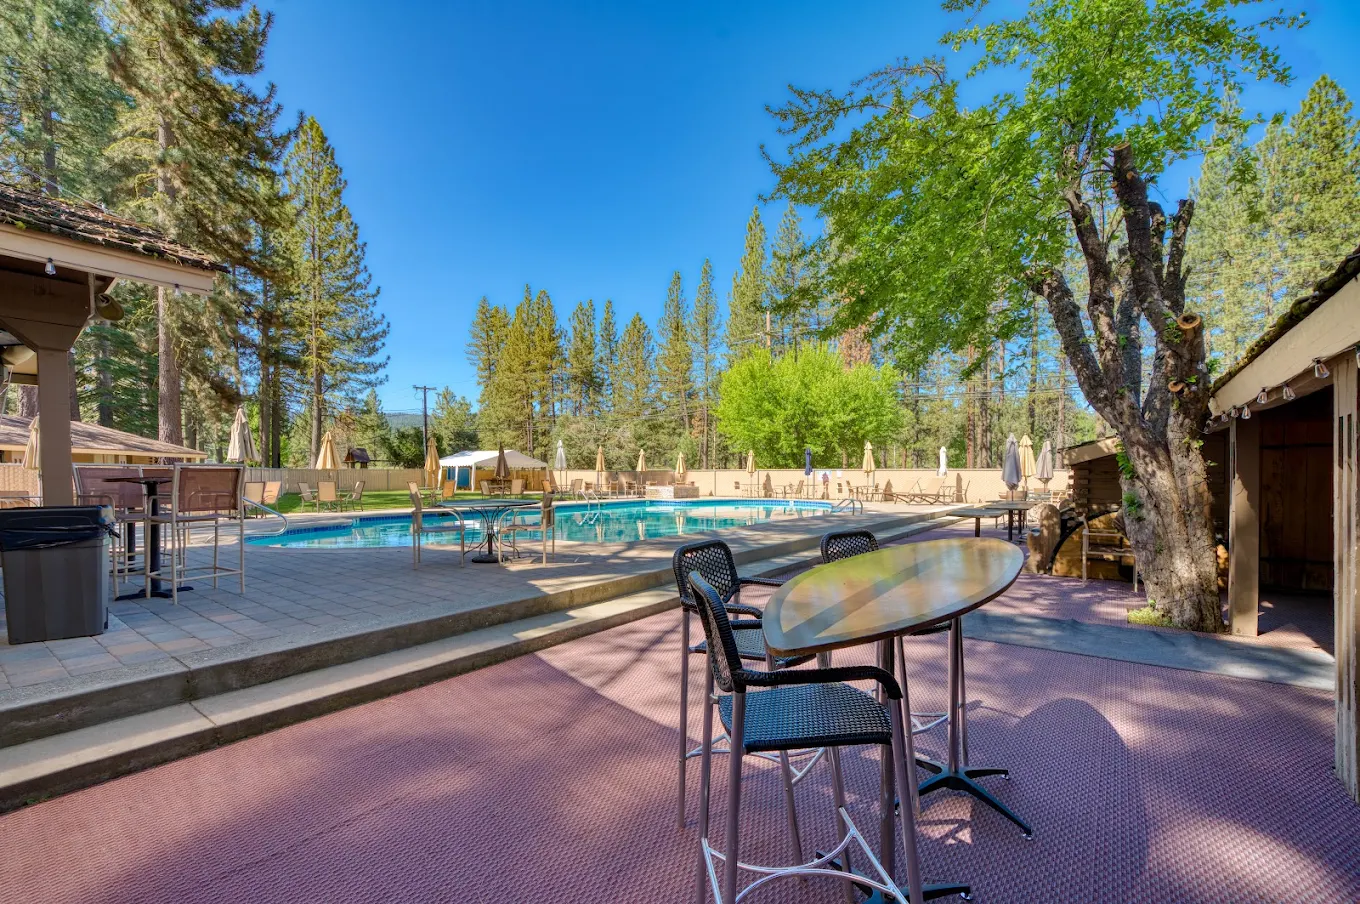
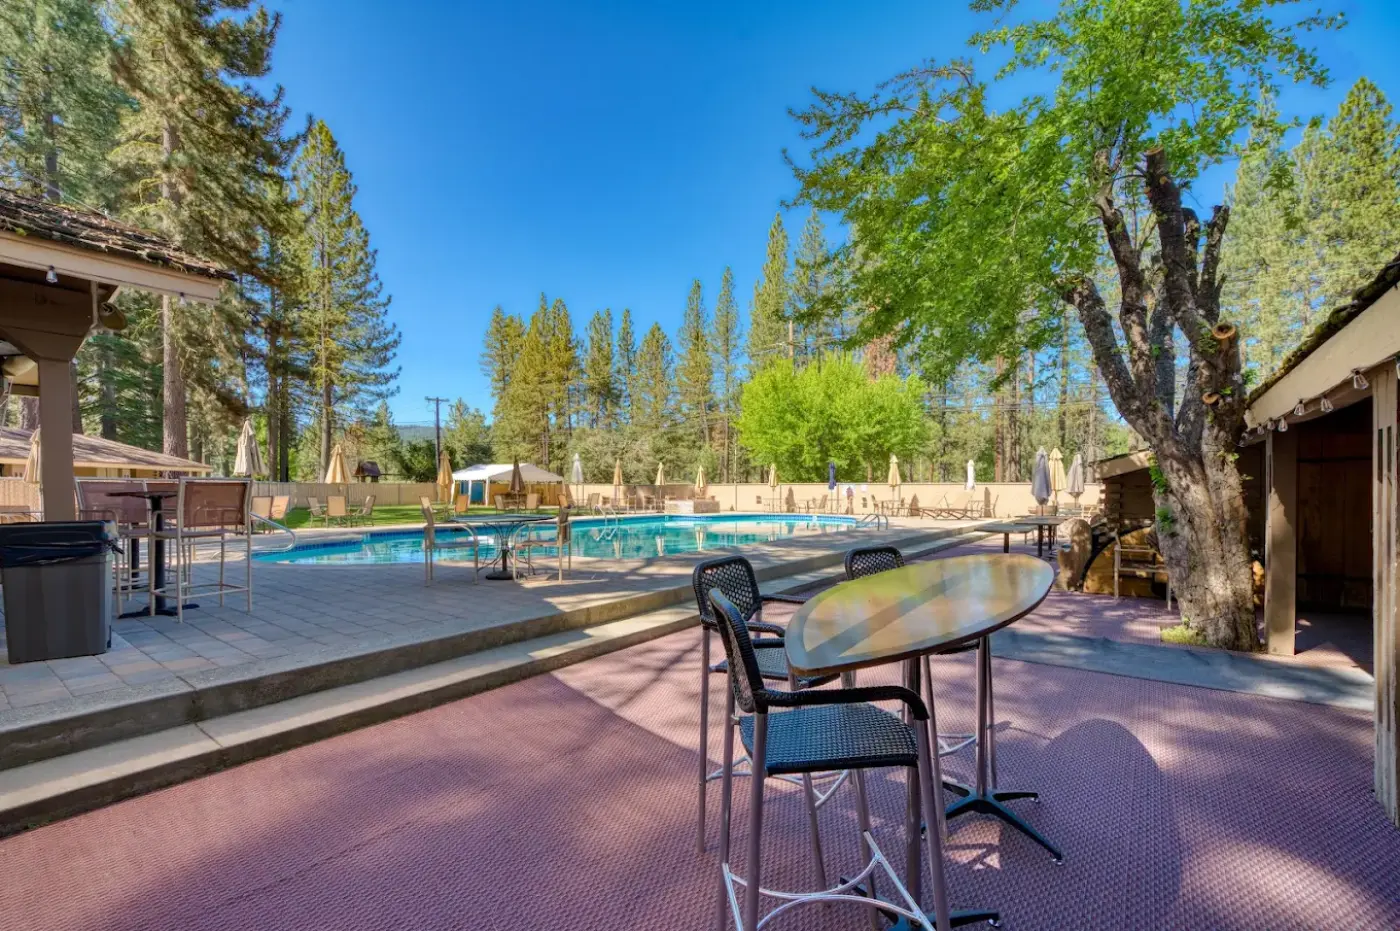
perf: compress hero images (-80%), first carousel img eager, GTM moved to body

diff --git a/src/data/content.js b/src/data/content.js
@@ -75,7 +75,7 @@ export const imageAlts = {
   'Chalet-View-Lodge_-Your-High-Sierra-Escape-visual-selection-3.png': 'Chalet View Lodge — 10-acre Sierra Nevada retreat with golf access, Graeagle CA',
   // NAKOMA DRAGON — additional course shots
   'nakoma-dragon-overview.jpg': 'Nakoma Dragon Golf Course — aerial overview of Golf World Top 75 layout, Clio CA',
-  'nakoma-dragon-feather-river.jpg': 'Nakoma Dragon Golf Course — Feather River canyon views from the Dragon course, Clio CA',
+  'nakoma-dragon-feather-river.webp': 'Nakoma Dragon Golf Course — Feather River canyon views from the Dragon course, Clio CA',
   // RIVER PINES RESORT
   'sign.jpg': 'River Pines Resort entrance sign — golf and lodging packages, Graeagle California',
   'DJI_0949-Edit.jpg': 'River Pines Resort — aerial view of main lodge and entrance, Graeagle CA',
@@ -376,11 +376,11 @@ export const courses = [
       'Designed by Robin Nelson — creator of Dunes at Mauna Lani',
     ],
     // Official photos from nakomaresort.com
-    hero: '/wp-images/nakoma-dragon-feather-river.jpg',
+    hero: '/wp-images/nakoma-dragon-feather-river.webp',
     images: [
       '/wp-images/nakoma-dragon-18-hole.jpg',
       '/wp-images/nakoma-dragon-overview.webp',
-      '/wp-images/nakoma-dragon-feather-river.jpg',
+      '/wp-images/nakoma-dragon-feather-river.webp',
       '/wp-images/nakoma-flw-outdoor-dining.jpg',
       '/wp-images/nakoma-recreation-dusk.jpg',
       '/wp-images/nakoma-flw-lodge-exterior.jpg',
